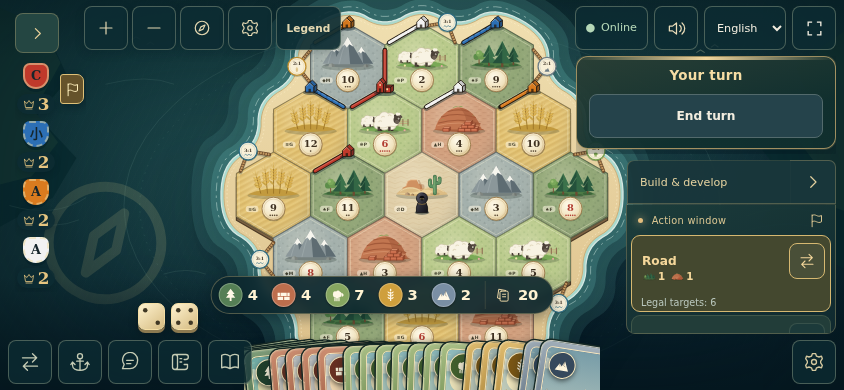
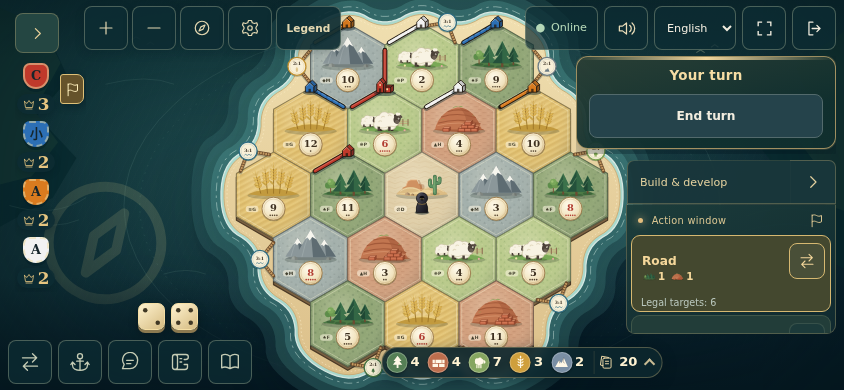
📝 docs(screenshots): recapture compact-hud with saving in the leave dialog

diff --git a/docs/screenshots/compact-hud/README.md b/docs/screenshots/compact-hud/README.md
@@ -2,7 +2,8 @@
 
 Review captures for the floating HUD on short landscape phones (#89) and for the
 save state that stays visible in that layout (#90). They were rendered from
-commit `a200840` on 2026-11-04.
+commit `e44804b` on 2026-11-07, after saving moved from the table menu into the
+leave dialog.
 
 Captured from the production build (`pnpm build`) in headless Chromium with
 device scale factor 1 and reduced motion. The script starts a disposable
@@ -10,7 +11,10 @@ service and serves the deterministic four-seat `hex-r2` fixture (the table API
 and WebSocket are answered from the fixture, as in `scripts/notice-dismiss`).
 Phones are emulated with touch so the `(pointer: coarse)` part of the
 compact-landscape query matches. The save pass holds the save request and then
-answers with a failed receipt.
+answers with a failed receipt. The save starts from the leave dialog, which
+stays open (and cannot be closed) while the request is held. The fixture does
+not load the room, so the dialog only offers Save and leave; at these heights
+its contents scroll inside the dialog box.
 
 | File | Locale | Viewport | State |
 |---|---|---|---|
@@ -18,18 +22,19 @@ answers with a failed receipt.
 | `02-floating-hud-844x390-en.png` | en | 844×390 | Header as a floating control cluster top right, tool band bottom left, board full height |
 | `03-action-rail-open-844x390-en.png` | en | 844×390 | Action rail open above the HUD |
 | `04-target-picker-above-hud-844x390-en.png` | en | 844×390 | Target list open while the robber must move; picker sits above the HUD |
-| `05-save-pending-844x390-en.png` | en | 844×390 | Save request held: "Save pending…" in the status strip, menu closed |
-| `06-save-failed-844x390-en.png` | en | 844×390 | Failed receipt: "Save failed" stays in the status strip, menu closed |
+| `05-save-pending-844x390-en.png` | en | 844×390 | Save request held from the leave dialog: "Save pending…" on its button and the working note |
+| `06-save-failed-844x390-en.png` | en | 844×390 | Failed receipt after closing the dialog: "Save failed" stays in the status strip |
 | `07-floating-hud-740x360-zh-Hant.png` | zh-Hant | 740×360 | Compact landscape HUD in Traditional Chinese |
-| `08-save-failed-740x360-zh-Hant.png` | zh-Hant | 740×360 | Failed receipt visible with the menu closed |
-| `09-save-failed-menu-open-740x360-zh-Hant.png` | zh-Hant | 740×360 | Table menu open, failed save reported inside it |
+| `08-save-failed-dialog-open-740x360-zh-Hant.png` | zh-Hant | 740×360 | Leave dialog still open, failed save reported inside it |
+| `09-save-failed-740x360-zh-Hant.png` | zh-Hant | 740×360 | Failed receipt visible after the dialog is closed |
 | `10-floating-hud-568x320-en.png` | en | 568×320 | The shortest supported landscape size |
 | `11-save-failed-568x320-en.png` | en | 568×320 | Failed receipt at the shortest size |
 
 The script asserts the compact layout is active, the status strip is absolutely
 positioned, the board takes the full viewport height, the page does not scroll,
-the table menu stays inside the viewport, the target picker is above the HUD,
-and the save state is visible while the menu is closed.
+the leave button stays inside the viewport, the target picker is above the HUD,
+the save state is visible while the save is pending, and "Save failed" stays
+visible in the status strip after the dialog is closed.
 
 ## Reproduce
 

diff --git a/docs/screenshots/README.md b/docs/screenshots/README.md
@@ -33,7 +33,7 @@ touch, screen-reader or 200%-zoom evidence exists yet (`docs/FIDELITY.md`, gap 5
 | [`boot-progress/`](boot-progress/README.md) | Step-by-step startup progress from PR #79: each pending step, the slow hint and the failed states, desktop and phone | `a200840` (2026-11-04) | [`scripts/boot-progress/capture.py`](../../scripts/boot-progress/capture.py) |
 | [`board-motion/`](board-motion/README.md) | Key frames of roads and buildings dropping from the sky (PR #80) and the board held during the roll presentation (PR #91), SVG and 3D | `a200840` (2026-11-04) | [`scripts/board-motion/capture.py`](../../scripts/board-motion/capture.py) |
 | [`target-picker/`](target-picker/README.md) | Compact target picker from PR #85: target list, picker for overlapping targets and dismissal by an outside click, desktop and phone | `a200840` (2026-11-04) | [`scripts/target-picker/capture.py`](../../scripts/target-picker/capture.py) |
-| [`compact-hud/`](compact-hud/README.md) | Floating HUD on short landscape phones from PR #89 (844×390, 740×360, 568×320, touch) and the save state kept visible in that layout from PR #90 | `a200840` (2026-11-04) | [`scripts/compact-hud/capture.py`](../../scripts/compact-hud/capture.py) |
+| [`compact-hud/`](compact-hud/README.md) | Floating HUD on short landscape phones from PR #89 (844×390, 740×360, 568×320, touch) and the save state kept visible in that layout from PR #90, saved from the leave dialog | `e44804b` (2026-11-07) | [`scripts/compact-hud/capture.py`](../../scripts/compact-hud/capture.py) |
 | [`dialog-portal/`](dialog-portal/README.md) | Trade settle dialog rendered through a portal instead of clipped by the table panel (PR #92), desktop and short landscape | `a200840` (2026-11-04) | [`scripts/dialog-portal/capture.py`](../../scripts/dialog-portal/capture.py) |
 
 `current/`, `hand-cards/` and `discard-prompt/` reflect the table as it is
